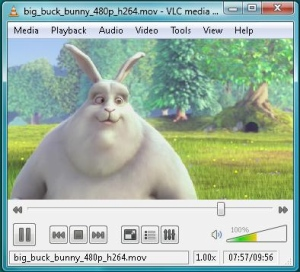
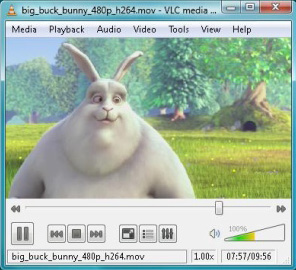
remove dark border in win32 screenshot, adapt sizes accordingly

diff --git a/www.videolan.org/include/os-specific.php b/www.videolan.org/include/os-specific.php
@@ -32,7 +32,7 @@ function Screenshot( $os )
 {
     $scr = array();
     $scr["Win32"] = array( "http://images.videolan.org/images/screenshots/vlc-win32.jpg" ,
-            "VLC on Windows", 300, 272 );
+            "VLC on Windows", 296, 270 );
     $scr["Linux"] = array( "http://images.videolan.org/images/screenshots/vlc-linux.jpg" ,
             "VLC on Linux", 300, 233 );
     $scr["OSX"] = array( "http://images.videolan.org/images/screenshots/vlc-osx.jpg" ,

diff --git a/www.videolan.org/vlc/index.php b/www.videolan.org/vlc/index.php
@@ -10,7 +10,7 @@
 <h1> VLC media player </h1>
 
 <div class="vlc-screenshot">
-  <img width="300" src="http://images.videolan.org/images/screenshots/vlc-win32.jpg" alt="VLC on Windows"/>
+  <img height="250" src="http://images.videolan.org/images/screenshots/vlc-win32.jpg" alt="VLC on Windows"/>
 </div>
 
 <div id="description">
